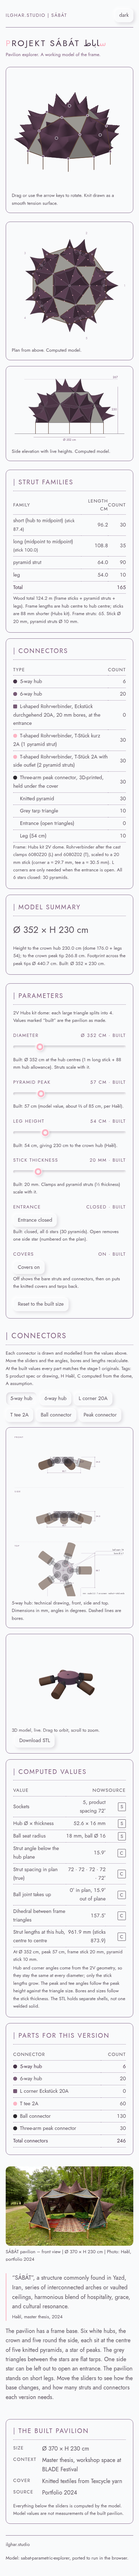
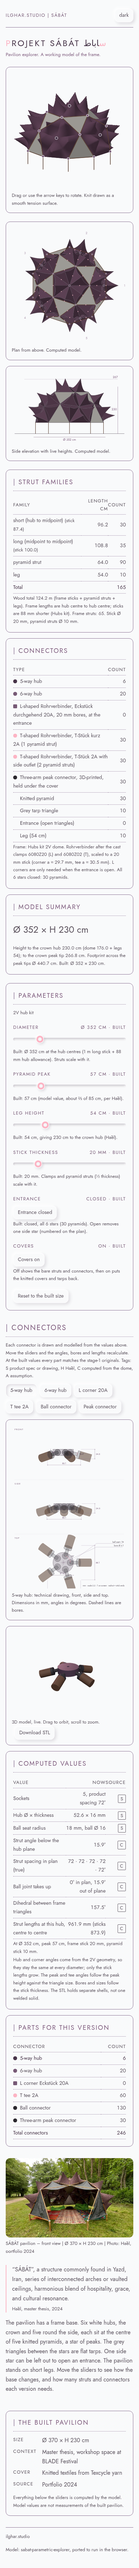
fix(site): dark title rest is #856a8e; refresh after shots
Dark h1 (and the Persian mark) after the pink first letter is #856a8e.
After shots at 1280 and 390, light and dark, now include the 2V hub kit note.

Changed region(s): [[0.0308, 0.0935, 0.9538, 0.9663], [0.0923, 0.9663, 0.1231, 0.9975]]

diff --git a/site/index.html b/site/index.html
@@ -11,7 +11,7 @@
 <style>
 :root{--name:#fcb4c4;--sec:#7d5a7c;--em:#856a8e;--label:#775a76;--key:#473448}
 :root{--canvas:#f9fafb;--surface:#f9fafb;--ink:#5a515c;--title:#473448;--muted:#7d5a7c;--subtle:#a6a1a7;--accent:#473448;--deco:#fcb4c4;--accent-fg:#f9fafb;--line:#856a8e;--ring:#473448;--track:#7d5a7c;--note-s:#5a515c;--note-p:#7d5a7c;color-scheme:light}
-[data-theme=dark]{--canvas:#2a272d;--surface:#2a272d;--ink:#d4d2d2;--title:#d4d2d2;--muted:#a6a1a7;--subtle:#a6a1a7;--accent:#fcb4c4;--deco:#fcb4c4;--accent-fg:#2a272d;--line:#a6a1a7;--ring:#fcb4c4;--track:#a6a1a7;--note-s:#a6a1a7;--note-p:#a6a1a7;--name:#fcb4c4;--sec:#a6a1a7;--em:#a6a1a7;--label:#a6a1a7;--key:#fcb4c4;color-scheme:dark}
+[data-theme=dark]{--canvas:#2a272d;--surface:#2a272d;--ink:#d4d2d2;--title:#d4d2d2;--muted:#a6a1a7;--subtle:#a6a1a7;--accent:#fcb4c4;--deco:#fcb4c4;--accent-fg:#2a272d;--line:#a6a1a7;--ring:#fcb4c4;--track:#a6a1a7;--note-s:#a6a1a7;--note-p:#a6a1a7;--name:#856a8e;--sec:#a6a1a7;--em:#a6a1a7;--label:#a6a1a7;--key:#fcb4c4;color-scheme:dark}
 *{box-sizing:border-box}
 :root{--font-title:Jost,sans-serif;--font-body:Jost,sans-serif}
 body{margin:0;background:var(--canvas);color:var(--ink);font:400 16px/1.65 var(--font-body)}
@@ -115,8 +115,8 @@ figure,canvas,.panel,.facts,.hero img{border-radius:12px}
 
 
 /* DESIGNER-BOSS review fixes (5 Nov): dark title first letter only, readable captions, brand label */
-[data-theme=dark]{--name:#d4d2d2;--note-s:#d4d2d2;--note-p:#d4d2d2}
-[data-theme=dark] h1,[data-theme=dark] h1 .fa{color:#d4d2d2!important}
+[data-theme=dark]{--name:#856a8e;--note-s:#d4d2d2;--note-p:#d4d2d2}
+[data-theme=dark] h1,[data-theme=dark] h1 .fa{color:#856a8e!important}
 [data-theme=dark] h1 .dc{color:#fcb4c4}
 [data-theme=dark] :is(h2,h3,.sec,.label) .dc{color:var(--sec,#a6a1a7)}
 .note,figcaption,cite,footer,th,.facts dt,.tag,.hint,.help,.cap{font-size:max(12px,13px)!important;font-weight:400!important;color:#5a515c}
